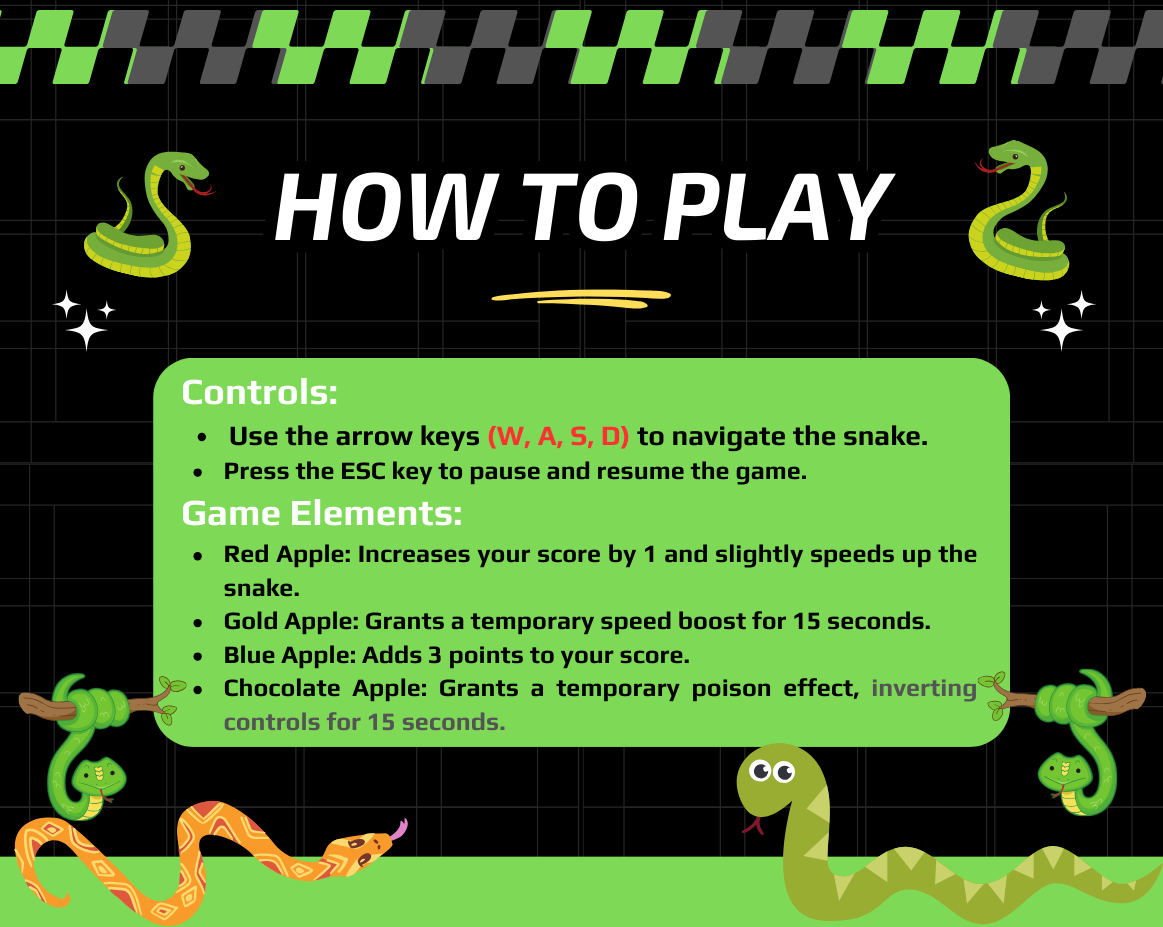
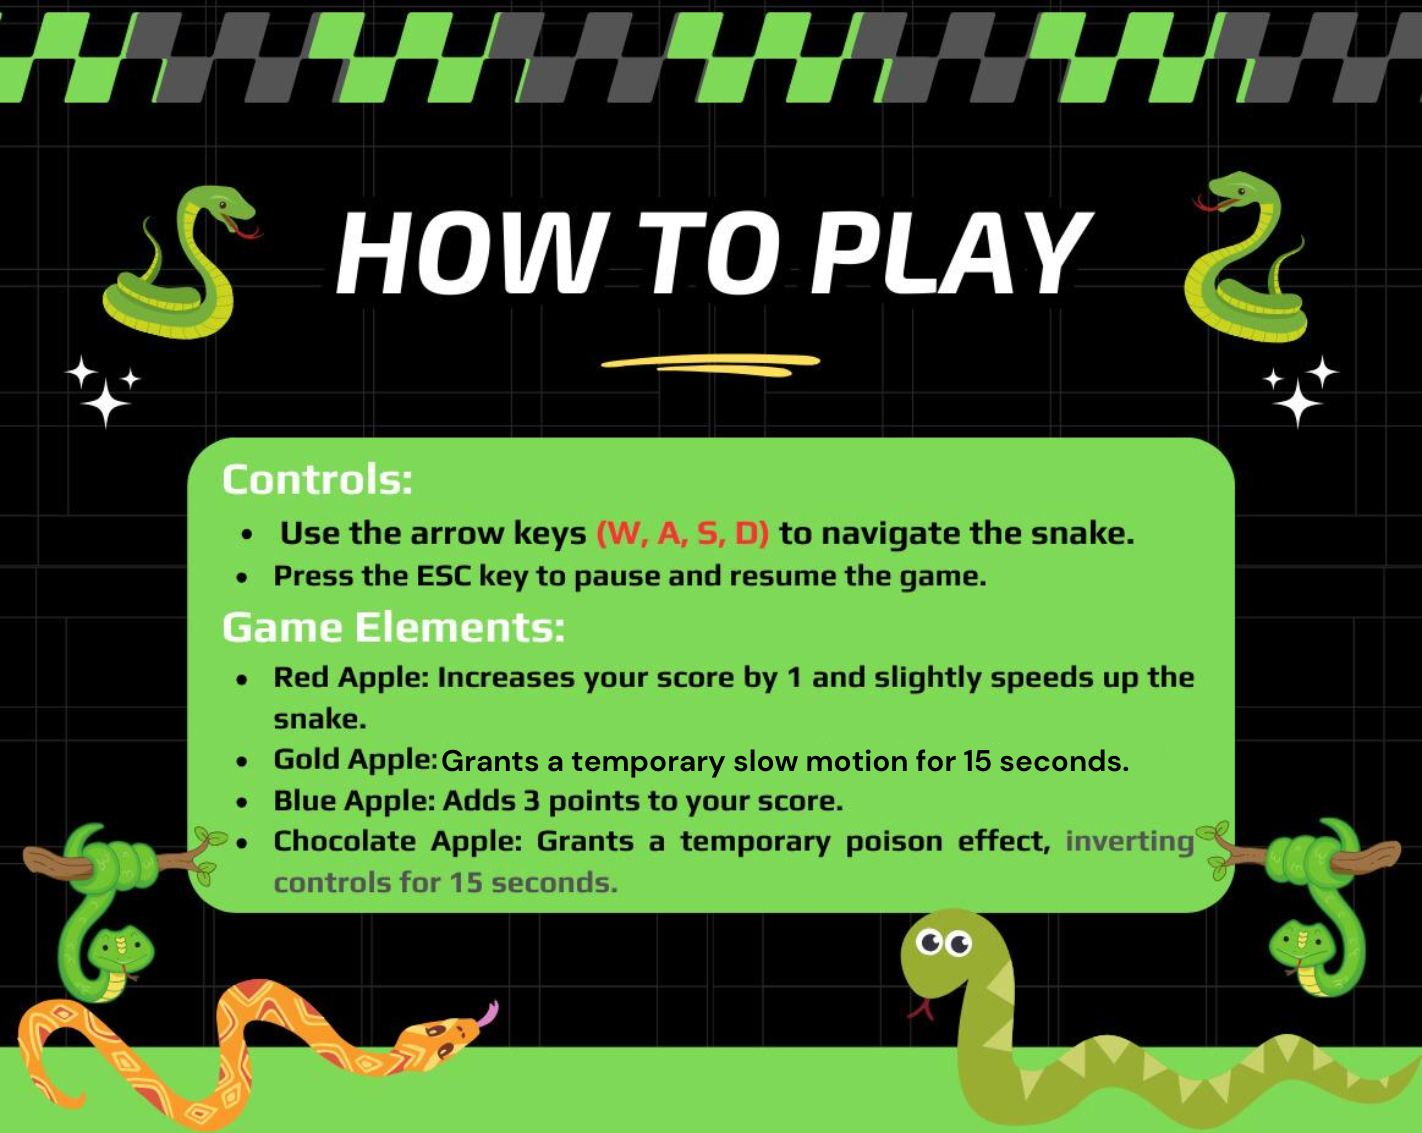
change the highscore and added slow motion adn updated the instructions page

diff --git a/src/main/java/at/ac/fhcampuswien/teamproject/HighScoreManager.java b/src/main/java/at/ac/fhcampuswien/teamproject/HighScoreManager.java
@@ -40,7 +40,11 @@ public class HighScoreManager {
      * Sets up the high scores table in the database if it doesn't already exist.
      */
     private void setupDatabase() {
-        String sql = "CREATE TABLE IF NOT EXISTS highscores (" + "id INTEGER PRIMARY KEY AUTOINCREMENT," + "username TEXT NOT NULL," + "score INTEGER NOT NULL," + "mode TEXT NOT NULL);";
+        String sql = "CREATE TABLE IF NOT EXISTS highscores (" +
+                "id INTEGER PRIMARY KEY AUTOINCREMENT," +
+                "username TEXT NOT NULL," +
+                "score INTEGER NOT NULL," +
+                "mode TEXT NOT NULL);";
         try (Statement stmt = conn.createStatement()) {
             stmt.execute(sql);
         } catch (SQLException e) {
@@ -55,19 +59,8 @@ public class HighScoreManager {
      * @param score    The score achieved by the player.
      * @param mode     The game mode in which the score was achieved.
      */
-    public void addScore(String username, int score, String mode) {
-        String insertSql = "INSERT INTO highscores (username, score, mode) VALUES (?, ?, ?)";
-        try (PreparedStatement insertStmt = conn.prepareStatement(insertSql)) {
-            insertStmt.setString(1, username);
-            insertStmt.setInt(2, score);
-            insertStmt.setString(3, mode);
-            insertStmt.executeUpdate();
-        } catch (SQLException e) {
-            e.printStackTrace();
-        }
 
-        cleanupOldScores(username, mode);
-    }
+
 
     /**
      * Removes old scores to maintain the maximum limit of high scores per user per mode.
@@ -76,7 +69,9 @@ public class HighScoreManager {
      * @param mode     The game mode.
      */
     private void cleanupOldScores(String username, String mode) {
-        String cleanupSql = "DELETE FROM highscores WHERE id IN (" + "SELECT id FROM highscores WHERE username = ? AND mode = ? " + "ORDER BY score DESC LIMIT " + maxScores + ", 99999)";
+        String cleanupSql = "DELETE FROM highscores WHERE id IN (" +
+                "SELECT id FROM highscores WHERE username = ? AND mode = ? " +
+                "ORDER BY score DESC LIMIT " + maxScores + ", 99999)";
         try (PreparedStatement cleanupStmt = conn.prepareStatement(cleanupSql)) {
             cleanupStmt.setString(1, username);
             cleanupStmt.setString(2, mode);
@@ -85,6 +80,7 @@ public class HighScoreManager {
             e.printStackTrace();
         }
     }
+
 
     /**
      * Retrieves the high scores for a given game mode.
@@ -109,6 +105,8 @@ public class HighScoreManager {
         return scores;
     }
 
+
+
     /**
      * Finalizes the object by closing the database connection.
      */
@@ -130,4 +128,80 @@ public class HighScoreManager {
             }
         }
     }
+
+    private boolean usernameExists(String username, String mode) {
+        String checkUsernameSql = "SELECT COUNT(*) FROM highscores WHERE username = ? AND mode = ?";
+        try (PreparedStatement checkUsernameStmt = conn.prepareStatement(checkUsernameSql)) {
+            checkUsernameStmt.setString(1, username);
+            checkUsernameStmt.setString(2, mode);
+            try (ResultSet rs = checkUsernameStmt.executeQuery()) {
+                return rs.next() && rs.getInt(1) > 0;
+            }
+        } catch (SQLException e) {
+            e.printStackTrace();
+        }
+        return false;
+    }
+
+    private void updateScore(String username, int score, String mode) {
+        String updateSql = "UPDATE highscores SET score = ? WHERE username = ? AND mode = ?";
+        try (PreparedStatement updateStmt = conn.prepareStatement(updateSql)) {
+            updateStmt.setInt(1, score);
+            updateStmt.setString(2, username);
+            updateStmt.setString(3, mode);
+            updateStmt.executeUpdate();
+
+            // Cleanup old scores if necessary
+            cleanupOldScores(username, mode);
+        } catch (SQLException e) {
+            e.printStackTrace();
+        }
+    }
+    public void addScore(String username, int score, String mode) {
+        // Check if the username already exists for the given mode
+        if (usernameExists(username, mode)) {
+            // Get the existing score for the user
+            int existingScore = getExistingScore(username, mode);
+
+            // Update the existing score if the new score is higher
+            if (score > existingScore) {
+                updateScore(username, score, mode);
+            }
+        } else {
+            // Add a new score since the user doesn't exist
+            insertNewScore(username, score, mode);
+        }
+    }
+
+
+    // Method to get the existing score for a user in a specific mode
+    private int getExistingScore(String username, String mode) {
+        String getScoreSql = "SELECT score FROM highscores WHERE username = ? AND mode = ?";
+        try (PreparedStatement pstmt = conn.prepareStatement(getScoreSql)) {
+            pstmt.setString(1, username);
+            pstmt.setString(2, mode);
+            try (ResultSet rs = pstmt.executeQuery()) {
+                if (rs.next()) {
+                    return rs.getInt("score");
+                }
+            }
+        } catch (SQLException e) {
+            e.printStackTrace();
+        }
+        return 0;
+    }
+
+    private void insertNewScore(String username, int score, String mode) {
+        String insertSql = "INSERT INTO highscores (username, score, mode) VALUES (?, ?, ?)";
+        try (PreparedStatement insertStmt = conn.prepareStatement(insertSql)) {
+            insertStmt.setString(1, username);
+            insertStmt.setInt(2, score);
+            insertStmt.setString(3, mode);
+            insertStmt.executeUpdate();
+        } catch (SQLException e) {
+            System.out.println("Error executing SQL statement:");
+            e.printStackTrace();
+        }
+    }
+
 }

diff --git a/src/main/java/at/ac/fhcampuswien/teamproject/AdvancedGameMode.java b/src/main/java/at/ac/fhcampuswien/teamproject/AdvancedGameMode.java
@@ -275,13 +275,13 @@ public class AdvancedGameMode {
         int newY = head.y;
 
         if (isPoisoned) {
-            // Invert controls if poisoned
-            switch (direction) {
+
+             switch (direction) {
                 case up:
-                    newY--;
+                    newY++;
                     break;
                 case down:
-                    newY++;
+                    newY--;
                     break;
                 case left:
                     newX++;
@@ -298,8 +298,7 @@ public class AdvancedGameMode {
                 return;
             }
         } else {
-            // Only update snake position if not poisoned
-            switch (direction) {
+             switch (direction) {
                 case up:
                     newY--;
                     break;
@@ -360,7 +359,7 @@ public class AdvancedGameMode {
                 case GOLD_APPLE:
                     System.out.println("GOLD_APPLE");
                     playSound(SPEED_BOOST_SOUND);
-                    startSpeedBoostTimer();
+                    startSpeedslowMotionTimer();
                     break;
                 case BLUE_APPLE:
                     System.out.println("BLUE_APPLE");
@@ -394,17 +393,17 @@ public class AdvancedGameMode {
     }
 
 
-    private static void startSpeedBoostTimer() {
+    private static void startSpeedslowMotionTimer() {
         int originalSpeed = speed; // Save the original speed
 
-        speed = 10; // Set the boosted speed
+        speed = 1; // Set the low speed
 
         if (speedBoostTimer != null) {
             speedBoostTimer.stop();
         }
 
         speedBoostTimer = new Timeline(new KeyFrame(Duration.seconds(15), event -> {
-            speed = originalSpeed; // Restore the original speed after the boost duration
+            speed = originalSpeed;
             speedBoostTimer.stop();
         }));
         speedBoostTimer.play();
